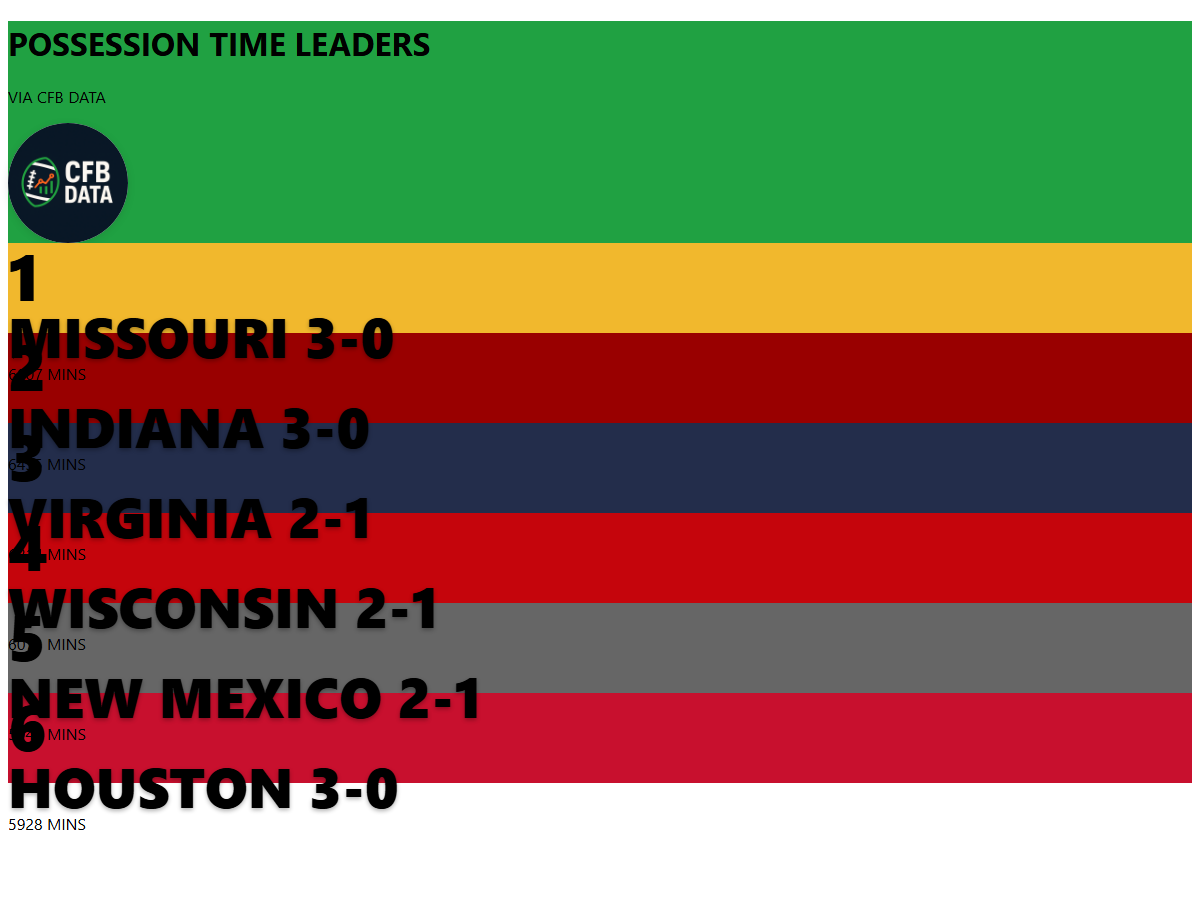
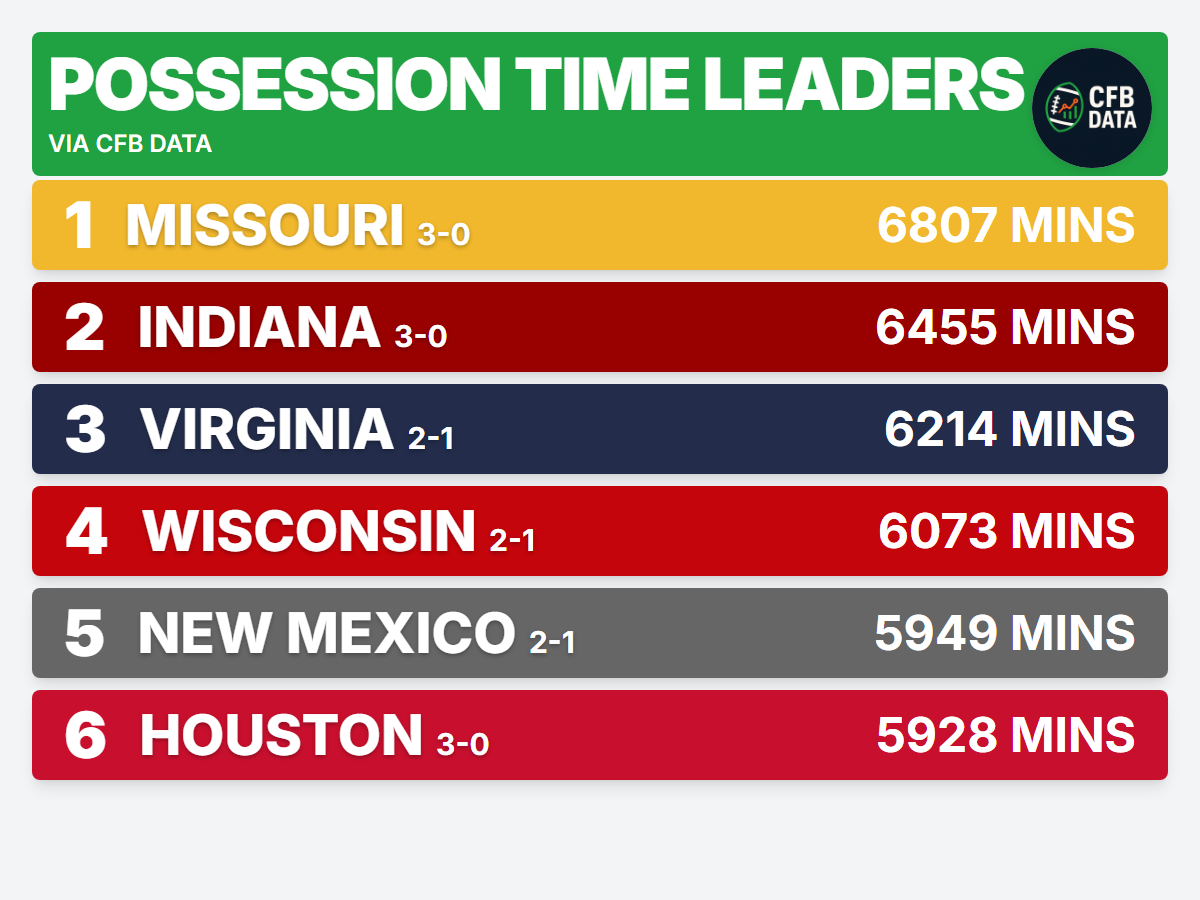
db

diff --git a/graphics/output/cfbd-rushingYards-2025.html b/graphics/output/cfbd-rushingYards-2025.html
@@ -6,8 +6,10 @@
     <title>CFB Leaders</title>
     <script src="https://cdn.tailwindcss.com"></script>
     <style>
+        @import url('https://fonts.googleapis.com/css2?family=Inter:wght@400;600;700;800;900&display=swap');
+        
         body {
-            font-family: 'Inter', -apple-system, BlinkMacSystemFont, 'Segoe UI', 'Roboto', 'Helvetica Neue', Arial, sans-serif;
+            font-family: 'Inter', sans-serif;
         }
         
         .team-bar {

diff --git a/graphics/output/cfbd-sacks-2025.html b/graphics/output/cfbd-sacks-2025.html
@@ -6,8 +6,10 @@
     <title>CFB Leaders</title>
     <script src="https://cdn.tailwindcss.com"></script>
     <style>
+        @import url('https://fonts.googleapis.com/css2?family=Inter:wght@400;600;700;800;900&display=swap');
+        
         body {
-            font-family: 'Inter', -apple-system, BlinkMacSystemFont, 'Segoe UI', 'Roboto', 'Helvetica Neue', Arial, sans-serif;
+            font-family: 'Inter', sans-serif;
         }
         
         .team-bar {

diff --git a/graphics/output/cfbd-totalYards-2025.html b/graphics/output/cfbd-totalYards-2025.html
@@ -6,8 +6,10 @@
     <title>CFB Leaders</title>
     <script src="https://cdn.tailwindcss.com"></script>
     <style>
+        @import url('https://fonts.googleapis.com/css2?family=Inter:wght@400;600;700;800;900&display=swap');
+        
         body {
-            font-family: 'Inter', -apple-system, BlinkMacSystemFont, 'Segoe UI', 'Roboto', 'Helvetica Neue', Arial, sans-serif;
+            font-family: 'Inter', sans-serif;
         }
         
         .team-bar {

diff --git a/graphics/output/leaders.html b/graphics/output/leaders.html
@@ -6,8 +6,10 @@
     <title>CFB Leaders</title>
     <script src="https://cdn.tailwindcss.com"></script>
     <style>
+        @import url('https://fonts.googleapis.com/css2?family=Inter:wght@400;600;700;800;900&display=swap');
+        
         body {
-            font-family: 'Inter', -apple-system, BlinkMacSystemFont, 'Segoe UI', 'Roboto', 'Helvetica Neue', Arial, sans-serif;
+            font-family: 'Inter', sans-serif;
         }
         
         .team-bar {
